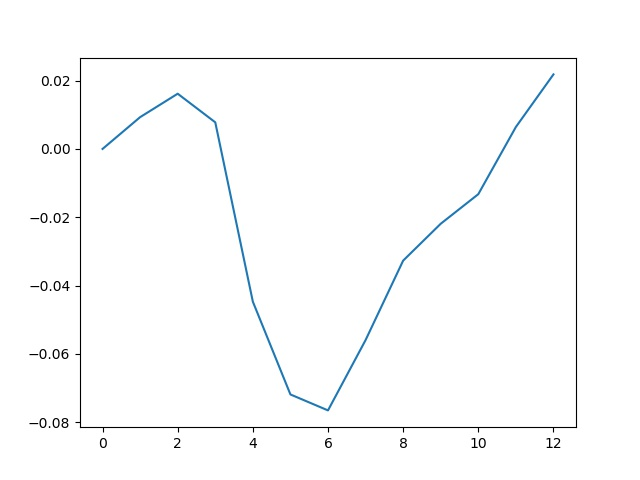
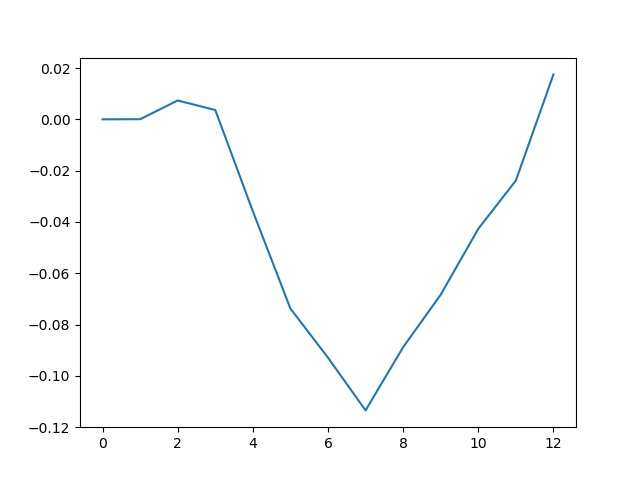
6/26-2

diff --git a/back_test.py b/back_test.py
@@ -33,11 +33,11 @@ factor_BP = sklearn.preprocessing.scale(factor_BP,axis=1)
 factor_BP = pd.DataFrame(factor_BP,index=factor_val.index,columns=factor_val.columns)
 
 # import return_1m
-factor_val = pd.read_pickle('DEEP_20.pkl')
+factor_val = pd.read_pickle('return_1m.pkl')
 # some data cleaning
-factor_return = np.array(factor_val.fillna(0))
-#factor_return[factor_return>100]=0
-#factor_return = sklearn.preprocessing.scale(factor_return,axis=1)
+factor_return = -1 * np.array(factor_val.fillna(0))
+factor_return[factor_return>100]=0
+factor_return = sklearn.preprocessing.scale(factor_return,axis=1)
 factor_return = pd.DataFrame(factor_return,index=factor_val.index,columns=factor_val.columns)
 
 if __name__ == '__main__':
